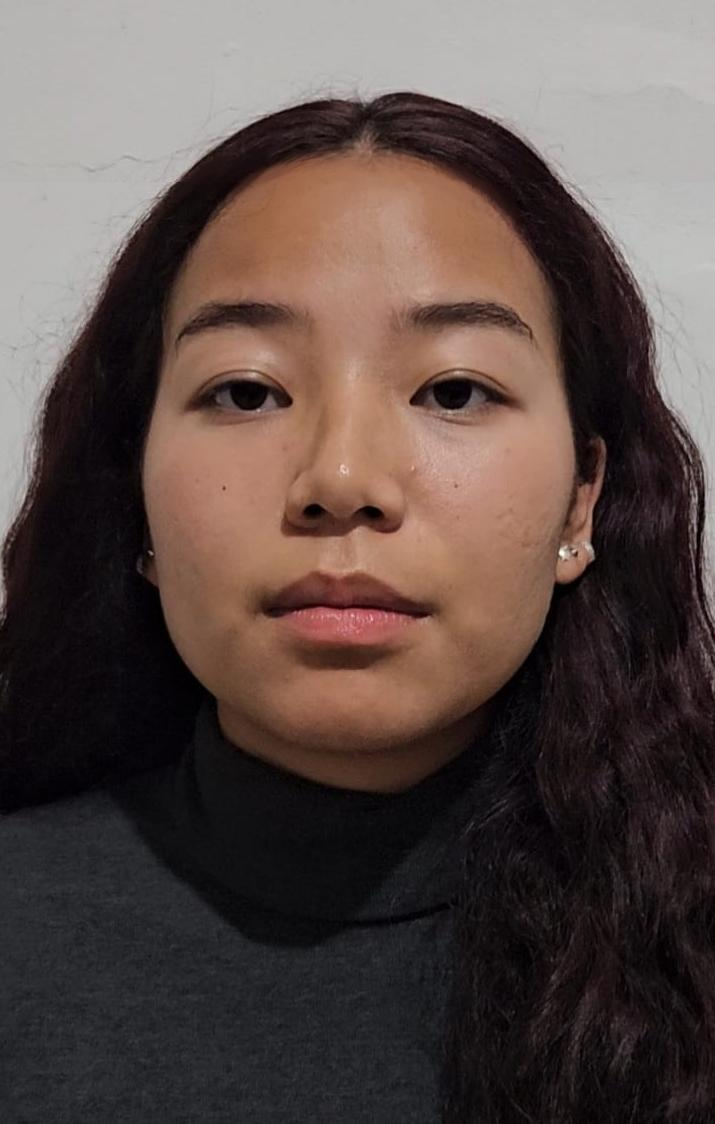
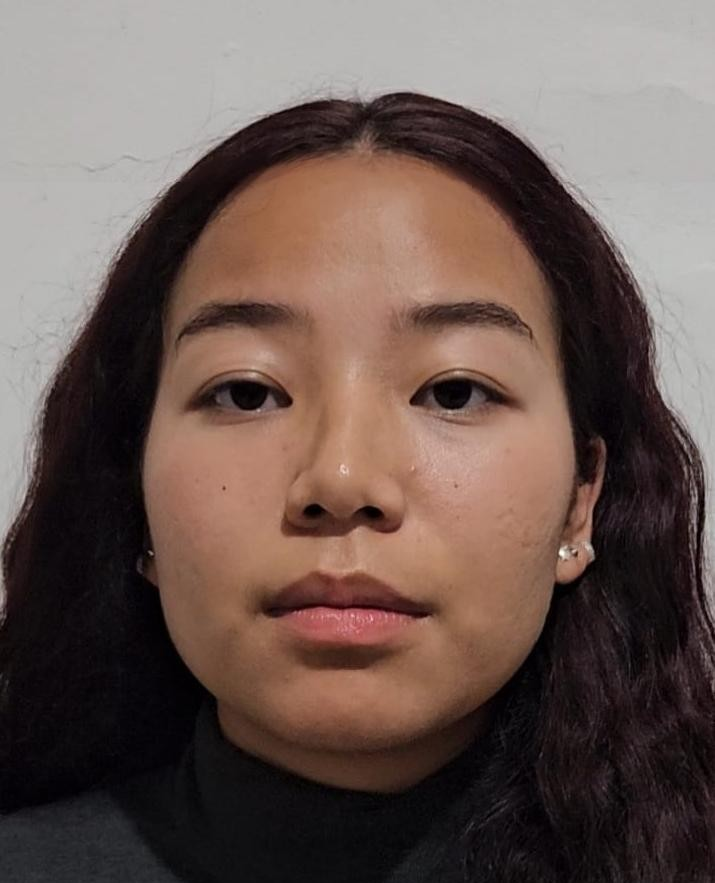
feat: implementing the footer

diff --git a/portfolio/src/components/Footer.jsx b/portfolio/src/components/Footer.jsx
@@ -1,8 +1,117 @@
+import { ArrowUp, Github, Instagram, Linkedin, Mail } from "lucide-react";
+import face from "../assets/images/faceCard.jpg"
+
 export default function Footer() {
+  function scrollToTop() {
+    window.scrollTo({ top: 0, behavior: 'smooth' });
+  }
+
+  const navLinks = [
+    { label: 'About', href: '#about' },
+    { label: 'Resume', href: '#resume' },
+    { label: 'Projects', href: '#projects' },
+    { label: 'Hobbies', href: '#hobbies' },
+  ]
+
+  const socials = [
+    { icon: <Github size={20} />, href: 'https://github.com/KarenYumi', label: 'GitHub' },
+    { icon: <Linkedin size={20} />, href: 'https://www.linkedin.com/in/karenyumi', label: 'LinkedIn' },
+    { icon: <Instagram size={20} />, href: 'https://www.instagram.com/k_yumiii/', label: 'Instagram' },
+    { icon: <Mail size={20} />, href: 'mailto:karen.yumi20@gmail.com', label: 'Email' },
+  ]
+
   return (
-    <section className='h-80 bg-linear-to-t from-pink-400 to-zinc-950"'>
+    <footer id="footer" className="relative overflow-hidden bg-zinc-950">
 
+      <div className="h-px w-full bg-gradient-to-r from-transparent via-pink-400 to-transparent" />
+      <div
+        className="absolute  w-206 h-206 rounded-full pointer-events-none"
+        style={{ background: 'radial-gradient(circle, rgba(167,139,250,0.25) 5%, transparent 70%)' }}
+      />
+      <div
+        className="absolute w-106 h-106 rounded-full pointer-events-none"
+        style={{ background: 'radial-gradient(circle, rgba(244,114,182,0.25) 0%, transparent 70%)' }}
+      />
+      <div
+        className="absolute -bottom-44 -right-44 w-106 h-106 rounded-full pointer-events-none"
+        style={{ background: 'radial-gradient(circle, rgba(244,114,182,0.35) 5%, transparent 70%)' }}
+      />
+      <div className="relative z-10 max-w-6xl 2xl:max-w-7xl mx-auto px-10 py-10 w-full">
 
-    </section>
+        <div className="grid md:grid-cols-2 gap-16 items-start">
+          <div className="flex flex-col gap-6">
+            <div className="flex items-center gap-5">
+              <div className="relative shrink-0">
+                <img
+                  src={face}
+                  className="relative w-25 h-25 rounded-full object-cover border-2 border-zinc-950"
+                />
+              </div>
+              {/* Available badge */}
+              <div className="flex flex-col gap-1">
+                <span className="cinzel-font text-lg text-white font-semibold tracking-wide">Karen Yumi Matsuguma Silva</span>
+                <span className="text-zinc-400 text-sm">Full-Stack Developer</span>
+                <span className="flex items-center gap-2 mt-1">
+                  <span className="relative flex h-2.5 w-2.5">
+                    <span className="animate-ping absolute inline-flex h-full w-full rounded-full bg-emerald-400 opacity-75" />
+                    <span className="relative inline-flex rounded-full h-2.5 w-2.5 bg-emerald-400" />
+                  </span>
+                  <span className="text-emerald-400 text-xs uppercase tracking-widest">Available for opportunities</span>
+                </span>
+              </div>
+            </div>
+
+            <a
+              href="mailto:karen.yumi20@gmail.com"
+              className="group inline-flex items-center gap-3 border border-zinc-700 hover:border-pink-400 rounded-full px-6 py-3 transition-all duration-300 w-fit hover:bg-pink-400/10"
+            >
+              <Mail size={16} className="text-pink-400" />
+              <span className="text-sm text-zinc-300 group-hover:text-white transition-colors">karen.yumi20@gmail.com</span>
+            </a>
+          </div>
+          <div className="flex flex-col gap-10 md:items-end">
+            <div className="flex flex-col gap-3 md:items-end">
+              <span className="text-zinc-500 text-xs uppercase tracking-[0.2em] mb-1">Find me</span>
+              <div className="flex gap-3">
+                {socials.map((s) => (
+                  <a
+                    key={s.label}
+                    href={s.href}
+                    target="_blank"
+                    rel="noopener noreferrer"
+                    aria-label={s.label}
+                    className="w-10 h-10 rounded-full border border-zinc-700 flex items-center justify-center text-zinc-400 hover:text-white hover:border-violet-500 hover:bg-violet-400/20 transition-all duration-300"
+                  >
+                    {s.icon}
+                  </a>
+                ))}
+              </div>
+            </div>
+          </div>
+        </div>
+
+        {/* Bottom bar */}
+        <div className="mt-20 pt-6 border-t border-zinc-800 flex flex-col md:flex-row items-center justify-between gap-4">
+          <span className="text-zinc-400 text-xs tracking-widest uppercase">
+            © 2026 Karen Yumi — All rights reserved
+          </span>
+          <span className="text-zinc-400 text-xs">
+            Designed & built with ♥ from Brazil
+          </span>
+        </div>
+      </div>
+
+      {/* Back to top */}
+      <button
+        onClick={scrollToTop}
+        className="absolute bottom-8 right-10 group flex flex-col items-center gap-1 cursor-pointer"
+        aria-label="Back to top"
+      >
+        <div className="w-10 h-10 rounded-full border border-zinc-700 flex items-center justify-center text-zinc-400 group-hover:border-violet-500 group-hover:text-white group-hover:bg-violet-500/20 transition-all duration-300">
+          <ArrowUp size={18} />
+        </div>
+        <span className="text-zinc-600 text-[10px] uppercase tracking-widest group-hover:text-violet-500 transition-colors duration-300">top</span>
+      </button>
+    </footer>
   );
 }

diff --git a/portfolio/src/sections/Hobbies.jsx b/portfolio/src/sections/Hobbies.jsx
@@ -20,8 +20,6 @@ export default function Hobbies() {
         HOBBIES
       </h2>
       <div className="max-w-6xl mx-auto grid grid-cols-4 grid-rows-3 gap-4 h-[600px]">
-
-        {/* SPORT — tall, 2 rows */}
         <div className="relative col-span-1 row-span-2 rounded-2xl overflow-hidden border border-amber-300/50 bg-zinc-900 group">
           <div className="absolute inset-0 bg-gradient-to-r from-amber-300/30 to-transparent" />
           <img src={wilson} className="absolute h-70 top-4 right-4 rotate-12 opacity-90" />
@@ -33,7 +31,6 @@ export default function Hobbies() {
           </div>
         </div>
 
-        {/* ART — small */}
         <div className="relative col-span-1 row-span-1 rounded-2xl overflow-hidden border border-green-300/60 bg-zinc-900">
           <div className="absolute inset-0 bg-gradient-to-br from-green-300/30 to-transparent" />
           <img src={flower} className="absolute h-full right-0 bottom-0 object-contain opacity-90" />
@@ -44,7 +41,6 @@ export default function Hobbies() {
           </div>
         </div>
 
-        {/* DRAW — wide, 2 cols */}
         <div className="relative col-span-2 row-span-1 rounded-2xl overflow-hidden border border-blue-300/50 bg-zinc-900 group">
           <div className="absolute inset-0 bg-gradient-to-r from-blue-500/30 to-transparent" />
           <div className="flex gap-2 absolute bottom-3 right-3 top-3 items-center">
@@ -58,7 +54,6 @@ export default function Hobbies() {
           </div>
         </div>
 
-        {/* FILM — tall, 2 rows */}
         <div className="relative col-span-2 row-span-1 rounded-2xl overflow-hidden border border-orange-400/50 bg-zinc-900">
           <div className="absolute inset-0 bg-gradient-to-b from-orange-300/20 to-transparent" />
           <div className="flex gap-2 absolute bottom-3 right-3 top-3 items-center">
@@ -72,7 +67,6 @@ export default function Hobbies() {
           </div>
         </div>
 
-        {/* MUSIC — wide, 2 cols */}
         <div className="relative col-span-1 row-span-1 rounded-2xl overflow-hidden border border-pink-400/50 bg-zinc-900">
           <div className="absolute inset-0 bg-gradient-to-l from-pink-400/30 to-transparent" />
           <img src={disc1} className="absolute h-28 top-4 left-1/2 rounded-full" style={{ animation: 'spin 9s linear infinite' }} />
